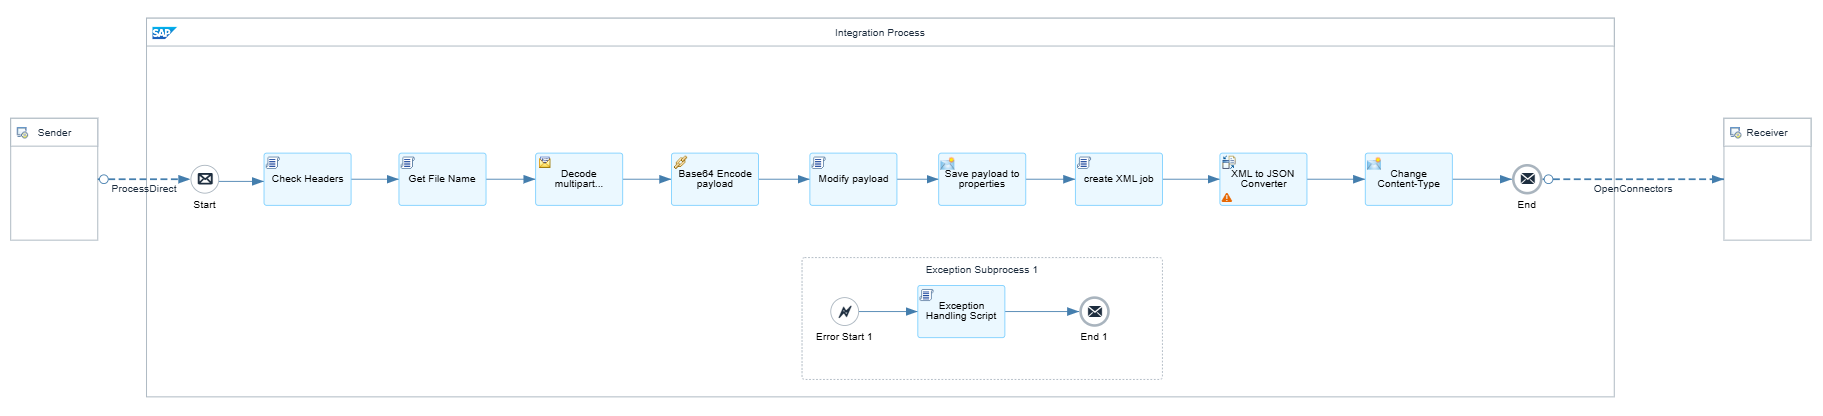
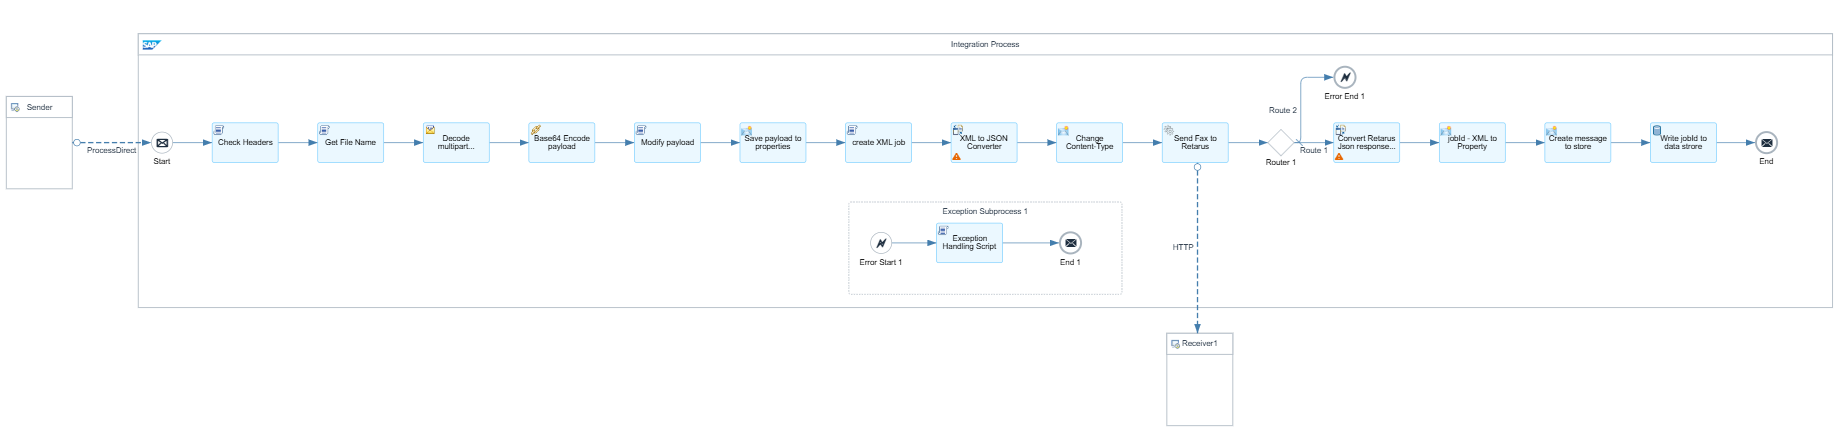
updated package and documentation to v2.0.1

diff --git a/docs/integration-flows/README.md b/docs/integration-flows/README.md
@@ -27,21 +27,24 @@
       - [3.3. Input Payload](#33-input-payload)
       - [3.4. Reply](#34-reply)
       - [3.5. Output connection](#35-output-connection)
-    - [4. Customizing the OpenConnector connections](#4-customizing-the-openconnector-connections)
+    - [4. Setup the Global Mapping](#4-setup-the-global-mapping)
+      - [4.1 Table Structure](#41-table-structure)
 
 ## Introduction
 
-The *Retarus_Global_CloudFaxIntegration_S4H-RetCloudFax* (CloudFaxIntegration in short) package contains the following Integration Flows (iFlows in short):
+The *Retarus_Global_CloudFaxIntegration_S4H-RetCloudFax* (CloudFaxIntegration in short) package contains the following :
 
 1. Global_SendFax_ProcessDirect_S4H2Retarus (SendFax in short)
 2. Global_GetStatusReport_HTTPS_Retarus2S4H (GetStatusReport in short)
 3. Global_SendFaxExternalInterface_HTTPS_S4H2Retarus (SendFaxExternalInterface in short)
+4. Global_ConfigurationValueMapping_Retarus-S4H (GlobalMapping in short)
 
-The first 3 iFlows use an Open Connector to communicate and authenticate to Retarus Cloud Fax Service REST API.
+The first 3 are Integration Flows (iFlows in short) which communicate with Retarus REST API via HTTPS.
+The fourth is a global mapping used for configuration.
 
 ## How to Install the package
 
-1. Download to your PC the *.zip* file containing the full Integration package from here: *[Retarus_Global_CloudFaxIntegration_S4H-RetCloudFax.zip](../../src/integration-flows/Retarus_Global_CloudFaxIntegration_S4H-RetCloudFax.zip)*
+1. Download to your PC the *.zip* file containing the full Integration package from here: *[Retarus_Global_CloudFaxIntegration_S4H-RetCloudFax_V2.0.1.zip](../../src/integration-flows/Retarus_Global_CloudFaxIntegration_S4H-RetCloudFax_V2.0.1.zip)*
 2. Open your Integration Suite in SAP BTP and head to ***Design => Integration and APIs***
 3. Select ***Import*** in the top right corner of the screen
 4. Select the *.zip* file you just downloaded and confirm
@@ -58,11 +61,10 @@ The first 3 iFlows use an Open Connector to communicate and authenticate to Reta
 
 ### Prerequisites
 
-- Before being able to use the imported iFlows, they must be deployed first.
-The only iFlows that is immediately deplyable is ***SendFaxExternalInterface*** so, click on the relevant 3-dots-icon in che column *Action* and select ***Deploy***: ![deploy](./images/deployInterface.png)
-    >The others iFlows, instead, require modifications that will be explained here after, one by one, mostly related to the Open Connector.
-- If you still haven't created the Open Connector instance connected to Retarus Cloud Fax,follow this [procedure](../api-integration/README.md) and create one.
-- Get the credential name for the Open Connector and the relevant endpoint address (see the mentioned [procedure](../api-integration/README.md))
+- Before being able to use the imported iFlows, they must be deployed first:
+ click on the relevant 3-dots-icon in che column *Action* and select ***Deploy***: ![deploy](./images/deployInterface.png)
+    >As of version 2.0.1, the configuration is made by using the global mapping, so all iFlows can be immediately deployed.
+- You need to receive the credentials from Retarus for the Fax REST API to prepare a credential set in the Integration Suite and specify it in the Global Mapping (see par. [4. Setup the Global Mapping](#4-setup-the-global-mapping))
 
 ### 1. SendFax
 
@@ -70,7 +72,7 @@ The only iFlows that is immediately deplyable is ***SendFaxExternalInterface*** 
 
 #### 1.1. Description
 
-This is the main iFlow of the package. It's meant to receive a *form-data* containing a *.pdf* or a *.tiff* file as a body and some headers, transform it into a *JSON* payload complaiant with the *Retarus Cloud Fax REST API* and use the *Open Connector* to send it to the Reatarus Service.
+This is the main iFlow of the package. It's meant to receive a *form-data* containing a *.pdf* or a *.tiff* file as a body and some headers, transform it into a *JSON* payload complaiant with the *Retarus Cloud Fax REST API* and send it to the Reatarus Service.
 
 #### 1.2. Input Connection
 
@@ -97,11 +99,12 @@ while the message Body must be either a *.pdf* or *.tiff* file.
 - cuno: 12345                    //the Customer Number assigned by Retarus
 - csid: faxSender                //the *Called Subscriber IDentification* of the fax
 - destFaxNumber: +4912345678     //the recipient fax number
+- loginidserial: 1               //the progressive number that identifies the set of credentials to use
 ```
 
 ##### 1.3.3. Optional headers
 
-The Optional headers to select the the coverpage template between the ones stored in the Retarus account and to populate the template with the desired values.  
+The Optional headers are used to select the the coverpage template between the ones stored in the Retarus account and to populate the template with the desired values.  
 
 Retarus allows Customers to store multimple coverletter templates in *HTML* format. These templates can include custom placeholders, such as *\$\{FromName\}*, *\$\{FromCompanyName\}*, *\$\{FromFaxNumber\}* or *\$\{ToCompanyName\}*.
 
@@ -143,6 +146,7 @@ The final format of the payload could be something like this (in *cURL* format):
 curl --location 'SAP-API-ENDPOINT' \
 --header 'destFaxNumber: +49123456789' \
 --header 'csid: integration tester' \
+--header 'loginidserial: 1' \
 --header 'key01: FromName' \
 --header 'value01: John Doe ' \
 --header 'key02: ToName' \
@@ -161,6 +165,8 @@ The iFlow will return, in *JSON* format, the ID of the fax job as feedback by Re
 
 Otherwise, it will return an error message in a different format, based on the kind of error: errors coming from Retarus will be in JSON format, system errors due to SAP could be in different formats (such as HTML).
 
+As of Version 2.0.1, the returned Job Id is automatically stored in in the Global Data Store for 30 days or until another Job is sent by the same Customer Number. The stored Job Id can be used by the following GetStartREport iFlow to retrieve the Job Status.
+
 ### 2. GetStatusReport
 
 ![GetStatusReport](./images/CloudFaxGetReport.png)
@@ -175,24 +181,33 @@ If the job ID is supplied as request parameter, the iFlow will return only the r
 
 #### 2.2. Input Connection
 
-This iFlow can be directly accessed by a public endpoint (supplied by SAP after the deployment) via a GET request:
+This iFlow can be directly accessed by a public endpoint (supplied by SAP after the deployment) via a GET request.
 
-- to pull a report of all fax jobs:
-
-```groovy
-{{sapBaseUrl}}/http/getReport
-```
-
-- to pull a report of a specific fax job:
+You must always supply a parameter for the Customer Number at Retarus and a parameter for the loginIdSerial:
 
 ```groovy
-{{sapBaseUrl}}/http/getReport?jobId=F2M5Y4AV6OXDBVXUGHMMKL
+{{sapBaseUrl}}/http/getReport?cuno=00000&loginIdSerial=1
 ```
 
 Where ***{{sapBaseUrl}}*** is the base URI defined by SAP after deployment and can be something similar to:
 
 ```groovy
 https://integration.name.eu.it-cpi000-rt.cfapps.eu00-000.hana.ondemand.com
+```
+
+This call will also work if you need to pull the report of all fax jobs.
+Then, depending on what you need to do, you may add the following parameters:
+
+- to pull a report of a specific fax job:
+
+```groovy
+{{sapBaseUrl}}/http/getReport?cuno=00000&loginIdSerial=1&jobId=F2M5Y4AV6OXDBVXUGHMMKL
+```
+
+- to pull the report of the last sent Job:
+  
+```groovy
+{{sapBaseUrl}}/http/getReport?cuno=00000&loginIdSerial=1&useLastJobId=1
 ```
 
 #### 2.3. Input Payload
@@ -258,11 +273,75 @@ Same as for ***SendFax***, see par. [1.4. Reply](#14-reply)
 
 This iFlow also features an output ProcessDirect connection that is preconfigured to forward the payload to ***SendFax***
 
-### 4. Customizing the OpenConnector connections
+### 4. Setup the Global Mapping
 
-All the connections using OpenConnectors are already pre-configured but they may need some adjustment, to fit your specific configuration:
+As of Version 2.0.1, the Cloud Fax Connector has been redesigned to allow configuration changes with no more need to modify and redeploy the iFlows.
 
-![OpenConnector connection setup](./images/openconnectorpar.png)
+Moreover, it has been thought to allows those who are using SAP BTP and the Integration Suite as a MiddleWare for multiple integrations, to have just one deployed instance to manage and yet have multiple endusers referring to it, each with his own set of credentials at Retarus. 
 
-- The first parameter you may need to change is the Base URI. Check that the pre-configured one is matching the same that you get when setting up the Open Connector (please refer to the relevant [procedure](../api-integration/README.md#3-create-the-credentials-to-access-the-open-connector))
-- The second parameter is the name of the credentials set you have created. If you created a set of credentials matching the preconfigured one, you will not need to change this. Refer to the relevant [documentation](../api-integration/README.md#3-create-the-credentials-to-access-the-open-connector) to setup the credentials for the Open Connector.
+This concept led to the use of Global Value Mapping to configure the iFlows.
+If you have any change/addition to the configuration, you can do your changes to the Value Mapping and avoid touching the iFlows.
+
+#### 4.1 Table Structure
+
+The Value Mapping has been designed as a small configuration Data Base, with tables that are matching entry values to output values.
+
+Each table is defined by 2 pairs of keys, one for input and one for output, called Agency and Identifier. To each pair of keys, you can associate a unique value.
+
+These are the tables used for configuration:
+
+| N. | Agency in | Identifier in | <=> | Agency out | Identifier out |
+| :--: | :---------: | :-------------: | :---: | :----------: | :--------------: |
+| 1 | retarus | cuno.loginIdSerial | | retarus | loginIdValue |
+| 2 | retarus | loginId | | s4h | credentialSetName |
+| 3 | retarus | loginId | | s4h | statusPushUrl |
+| 4 | s4h | statusPushUrl | | s4h | authMethod |
+| 5 | s4h | statusPushUrl | | s4h | password |
+| 6 | s4h | statusPushUrl | | s4h | username |
+
+What they do:
+
+1. At Retarus, the username is used to univocally identify the required REST API instance when there is more than one under the same Customer Number. The Integration Suite requires to store any set of credentials to authenticate to external systems, in a separate storage and identify each set with a unique name. We can imagine to associate each set of credentials to a number (that we called loginIdSerial), to avoid using the credentials set name in the API call headers. This table, then is used to match the Customer Number + loginIdSerial to the username of the Retarus credentials.
+
+2. The second table is used to associate the aforementioned username to the credential set name stored in the Integration Suite.
+
+>Example: let's imagine Retarus credentials are:
+>
+> - username: johndoe@sap.com
+> - password: Integrator123!
+>
+> We store them in the Integration Suite storage under the name of "RetarusCredentials".
+> Then we have:
+>
+> - Customer Number: 00000 (assigned by Retarus)
+> - loginIdSerial: 1 (assigned by the BTP manager)
+>
+> These data will be passed via headers from the external system that is calling our integration endpoint.
+>
+> Based on these prerequisites, we will need to configure table 1 as:
+>
+> | retarus, cuno.loginIdSerial | <=> | retarus, loginIdValue |
+> | :---------------------------: | :---: | :---------------------: |
+> | 00000.1 | | johndoe@sap.com |
+>
+> Table 2, instead will have to be setup like this:
+>
+> | retarus, loginId | <=> | s4h, credentialSetName |
+> | :----------------: | :---: | :----------------------: |
+> | johndoe@sap.com | | RetarusCredentials |
+>
+> This way, the external system that is calling our integration to connect to Retarus API, will be associated to the correct set of credentials to the correct instance at Retarus.
+>
+> If any change or addition is required, the only thing to do will be to change/add data in these tables and deploy again the Value Mapping artifact, with no need of modifying and redeploying the iFlows.
+
+Table 3 to 6 are used in case the enduser needs to receive push notifications from Retarus. They are used to setup the endpoint, auth method and credentials to communicated to Retarus in order to be able to receive the push notifications about the Jobs status:
+
+3. As every Fax4Application instance at Retarus can send push notifications to a different endpoint, this table is used to associate the unique login ID (username) with the required endpoint.
+
+4. Table 4 is used to associate the endpoint from table 3 to the relevant authentication method
+
+5. Table 5 is used to match the endpoint with a username in case of BASIC auth
+
+6. Table 6 is used to match the endpoint with a password in case of BASIC auth
+
+>*Note: at the moment only NO auth and BASIC auth are supported by this package. In the future, also OAuth2 will be added as the Retarus Status Push service already allows to use it as Auth Method*

diff --git a/tests/integration/README.md b/tests/integration/README.md
@@ -42,9 +42,9 @@ This document will guide you through the process of setting up a test case of th
 
 To test the Cloud Fax Connector, we will use the iFlow called [sendFaxExternalInterface](../../docs/integration-flows/README.md#3-sendfaxexternalinterface), supplied with this package, to provide a public endpoint URL that will give access to the iFlow [SendFax](../../docs/integration-flows/README.md#1-sendfax) which, in turn, will send a payload to Retarus Cloud Fax Service.
 
-The payload will be a sample *.pdf* file sent via a *form-data* type message.
+The payload will be a sample *.pdf* file sent via a *multipart/form-data* type message.
 
-Beside the sample *.pdf* file, this package include a *.txt* file feature the *cURL command* to send the *form-data* and a *.html* file to be used as coverletter for the fax.
+Beside the sample *.pdf* file, this package include a *.txt* file which feature the *cURL command* to send the *form-data* and a *.html* file to be used as coverletter for the fax.
 
 We will see these files and how to use them in details in the [Test Setup](#test-setup) section.
 
@@ -62,7 +62,7 @@ We will see these files and how to use them in details in the [Test Setup](#test
 
 - You have the *credentials* to authenticate to the deployed iFlows.
 - You have already *imported and deployed* the *Integration flows* supplied with this package (if not, please follow these [instructions](../../docs/integration-flows/README.md)).
-- You have already setup the required *Open Connector* (if not, please follow these [instructions](../../docs/api-integration/README.md)) and the relevant credentials to use in the iFlows.
+- You have already setup and the deployed the *Value Mapping* artifact (if not, please follow these [instructions](../../docs/integration-flows/README.md#4-setup-the-global-mapping).
 - You have downloaded the files in the sample folder:
   - [coverpage-default.ftl.html](coverpage-default.ftl.html)
   - [curlPostFax.txt](curlPostFax.txt)
@@ -161,6 +161,7 @@ curl --location '{yourIntegrationSuiteAddress}/http/sendFaxFacade' \
 --header 'key03: SubjectTitle' \
 --header 'value03: {tourSubjecttitle}' \
 --header 'cuno: {yourCustomerNumber}' \
+--header 'loginIdSerial: {yourLoginIdSerial}' \
 --header 'Authorization: Basic {yourCredentialsB64}' \
 --form 'file=@"faxSample.pdf"'
 ```
@@ -171,6 +172,7 @@ You need to replace the bracketed variables with the relevant values. These are 
 - *{yourFaxNumber}*: this is the recipient's fax number. e.g. +49123456789.
 - *{yourCSID}*: this is the fax Called Subscriber Identification.
 - *{yourCustomerNumber}*: this is the Customer Number assigned by Retarus.
+- *{yourLoginIdSerial}*: the loginIdSerial to identify the set of credential stored in the Integration Suite to be used to authenticate to the Retarus endpoint.
 - *{yourCredentialsB64}*: this is the Base64 encoding of the credentials you need to authenticate to SAP. They must be in the format *username:password* and then encoded.
 
 The other header values are used to fill out the coverpage placeholder variables.
@@ -190,6 +192,7 @@ curl --location 'https://retarus-integrations-eu.it-cpiNNN-rt.cfapps.euXX-YYY.ha
 --header 'destFaxNumber: +49123456789' \
 --header 'csid: RetarusCloudFax' \
 --header 'cuno: 12345' \
+--header 'loginIdSerial: 1' \
 --header 'Authorization: Basic dXNlcm5hbWU6cGFzc3dvcmQ=' \
 --form 'file=@"faxSample.pdf"'
 ```
@@ -219,6 +222,7 @@ curl --location 'https://retarus-integrations-eu.it-cpiNNN-rt.cfapps.euXX-YYY.ha
 --header 'key07: SubjectText' \
 --header 'value07: This is a test Fax sent from SAP Integration Suite via Retarus Cloud Fax service' \
 --header 'cuno: 12345' \
+--header 'loginIdSerial: 1' \
 --header 'Authorization: Basic dXNlcm5hbWU6cGFzc3dvcmQ=' \
 --form 'file=@"faxSample.pdf"'
 ```

diff --git a/README.md b/README.md
@@ -13,20 +13,28 @@ The Integration flows supplied here can be a part of wider integration scenarios
 ## Prerequisites
 
 1. Integration Suite enabled for your Subaccount in SAP BTP
-2. Open Connectors enabled for your Integration Suite
-3. Having a deal with Retarus about the Cloud Fax Service
+2. Having a deal with Retarus about the Cloud Fax Service
     >if you still don't have it, you can contact Retarus here: [https://www.retarus.com/contact/](https://www.retarus.com/contact/)
-4. Having received by Retarus the credentials to access the service
+3. Having received by Retarus the credentials to access the service
 
 ## Package Documentation & Donwload Files
 
 To setup and use the Retarus Cloud Fax Integration, please refer to the relevant detailed documentation and download files:
 
-1. Integration Package: [docs](./docs/integration-flows/README.md) - [files](.\src\integration-flows\Retarus_Global_CloudFaxIntegration_S4H-RetCloudFax_V1.2.zip)
-2. Open Connector: [docs](./docs/api-integration/README.md) - [files](./src/api-integration/cloudFaxRestAPI.json)
+- Integration Package: [docs](./docs/integration-flows/README.md) - [files](.\src\integration-flows\Retarus_Global_CloudFaxIntegration_S4H-RetCloudFax_V1.2.zip)
 
 ## Changelog
 
+- v2.0.1:
+  - removed the use of Open Connectors
+  - added global variables for headers configuration
+  - added value mapping for global value configuration
+  - SendFax flows now can store the JobId returning from Retarus to be used later to poll the job status
+  - GetStatusReport can be used in multiple ways: with last returned job id, with a specific job id or with no job id at all to get the status of all job ids
 - v1.2:
   - updated naming convention
   - added capabilty of selecting the coverpage template from within the job
+
+## Old versions - deprecated
+
+If you are still running an old deprecated version of this package and still need a reference that you cannot find in the current documentation, here you can find the [removed documentation and resources](./docs/old-deprecated/README.md)

diff --git a/docs/old-deprecated/README.md b/docs/old-deprecated/README.md
@@ -1,0 +1,14 @@
+# Old Versions Documentation - DEPRECATED
+
+This folder contains documentation and resources about older versions of the Fax Connector Package.
+
+These versions are now deprecated and will no more be maintained by Retarus.
+
+Documentation si still kept here for those who are still running old versions of the package and need to have a reference.
+
+Resources removed as of V2.0.1:
+
+- Cloud Fax Integration
+  - V1.0: [zip file](../../src/integration-flows/old%20versions/CloudFaxIntegration_V1.0.zip)
+  - V1.2: [zip file](../../src/integration-flows/old%20versions/Retarus_Global_CloudFaxIntegration_S4H-RetCloudFax_V1.2.zip)
+- Open Connectors: [docs](./api-integration/README.md) - [files](./api-integration/src/cloudFaxRestAPI.json)
